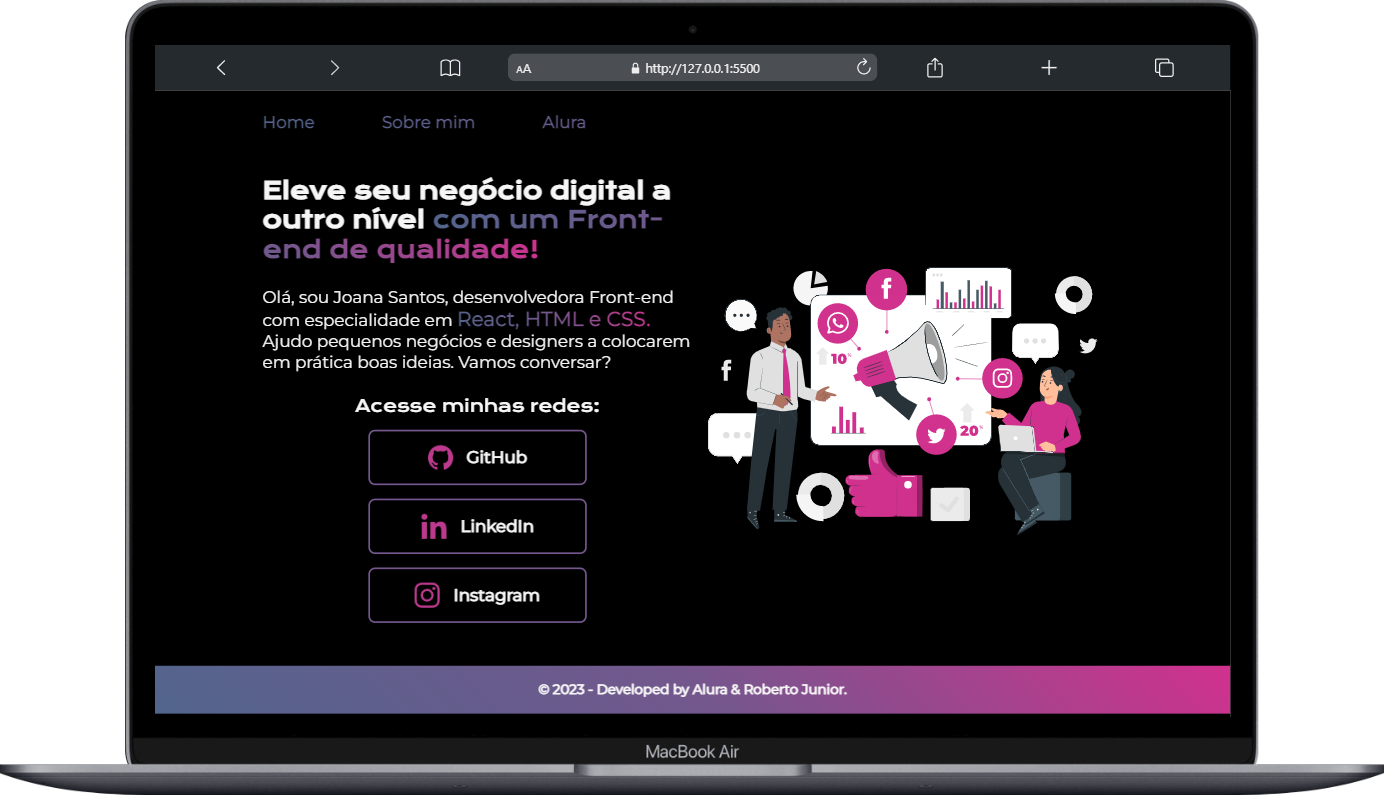
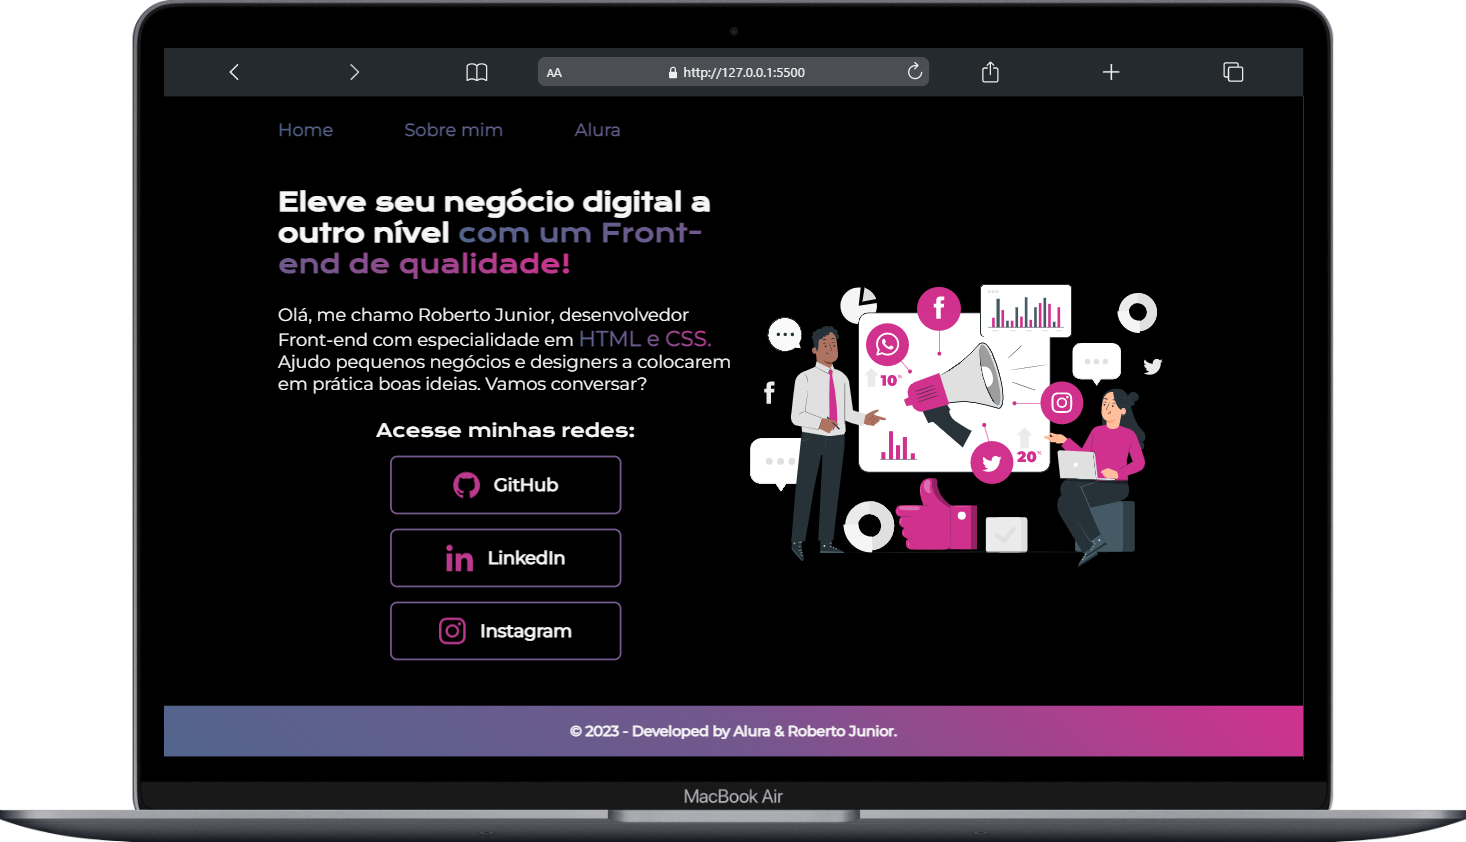
update

diff --git a/portfolio-alura/index.html b/portfolio-alura/index.html
@@ -21,7 +21,7 @@
         <main class="apresentacao">
             <section class="apresentacao-conteudo">
                 <h1 class="apresentacao-conteudo-titulo">Eleve seu negócio digital a outro nível <strong class="titulo-destaque gradiente">com um Front-end de qualidade!</strong></h1>
-                <p class="apresentacao-conteudo-texto">Olá, sou Joana Santos, desenvolvedora Front-end com especialidade em <strong class="gradiente">React, HTML e CSS.</strong> Ajudo pequenos negócios e designers a colocarem em prática boas ideias. Vamos conversar?</p>
+                <p class="apresentacao-conteudo-texto">Olá, me chamo Roberto Junior, desenvolvedor Front-end com especialidade em <strong class="gradiente">HTML e CSS.</strong> Ajudo pequenos negócios e designers a colocarem em prática boas ideias. Vamos conversar?</p>
 
                 <div class="apresentacao-links">
                     <h2 class="apresentacao-link-subtitulo">Acesse minhas redes:</h2>

diff --git a/portfolio-alura/styles/style.css b/portfolio-alura/styles/style.css
@@ -47,7 +47,6 @@ body {
     font-family: var(--font2);
     font-size: var(--font-size-p);
     font-weight: 600;
-    color: var(--color-destaque);
 } 
 
 .titulo-destaque {
@@ -56,7 +55,7 @@ body {
 }
 
 .apresentacao {
-    padding: 10%;
+    padding: 5% 10%;
     display: flex;
     align-items: center;
     justify-content: space-between;

diff --git a/portfolio-alura/styles/responsivo.css b/portfolio-alura/styles/responsivo.css
@@ -55,3 +55,9 @@
         font-size: 0.75rem;
     }
 }
+
+@media (min-width: 1400px) {
+    .apresentacao {
+        padding: 7%;
+    }    
+}
